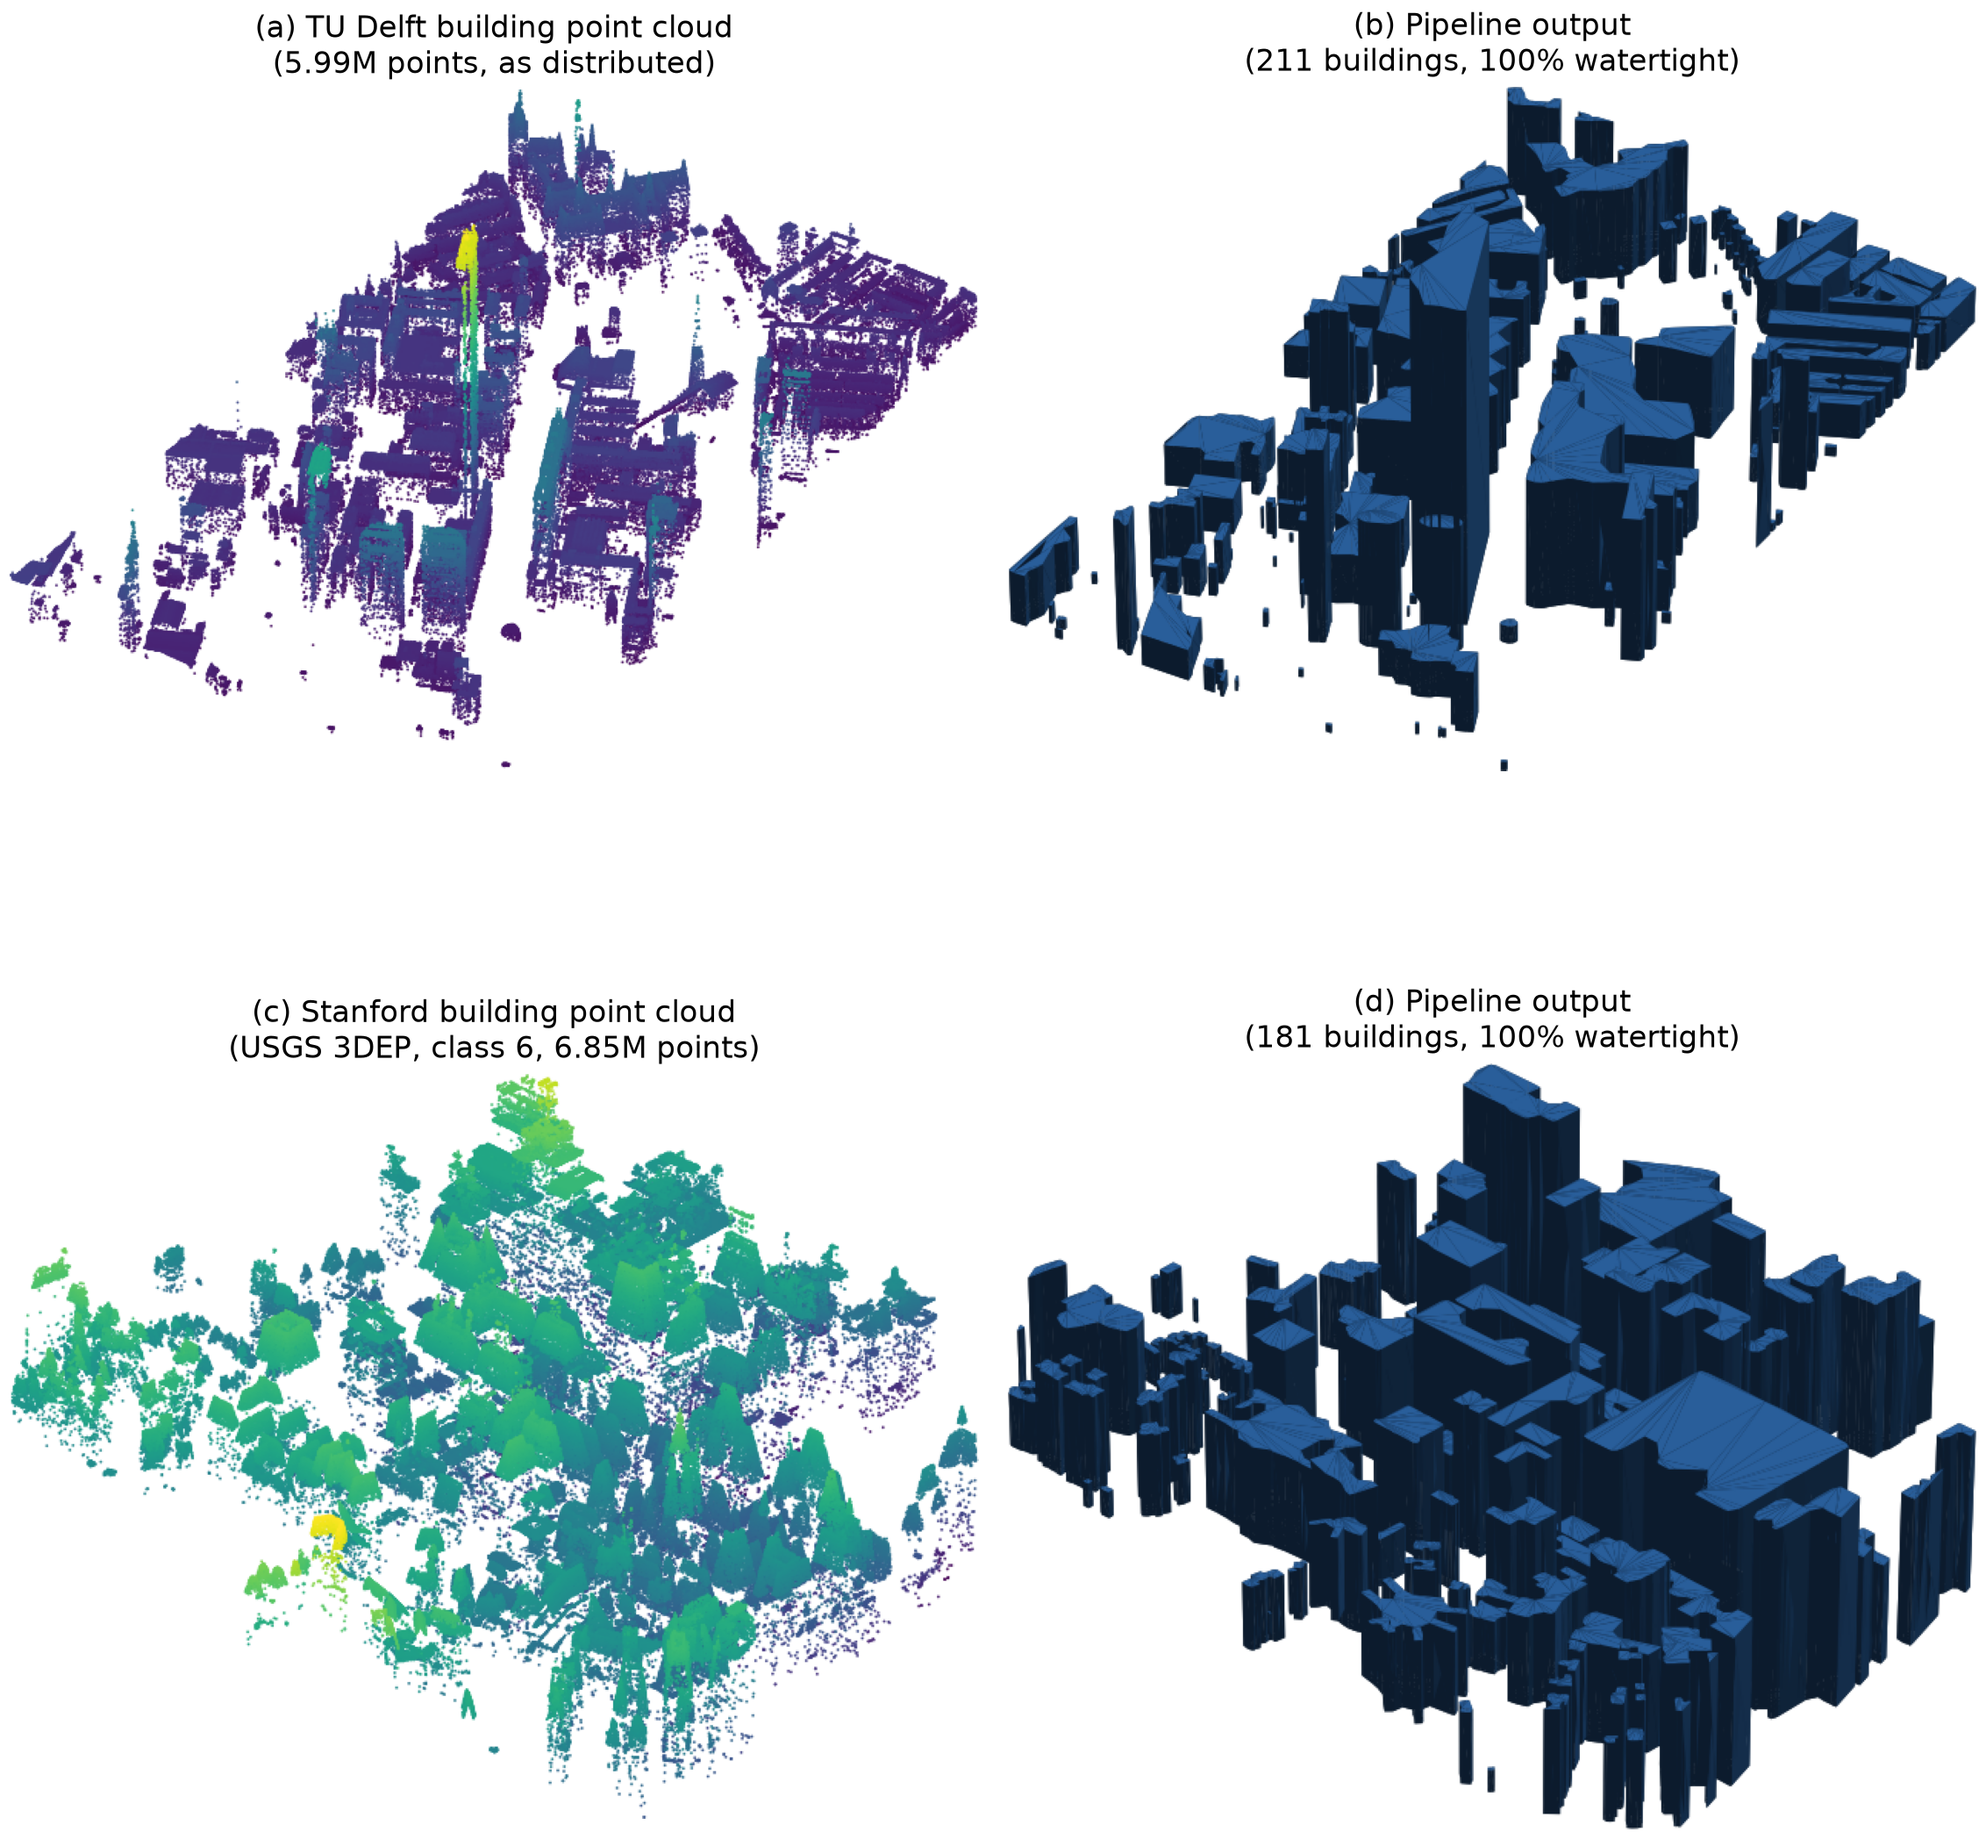
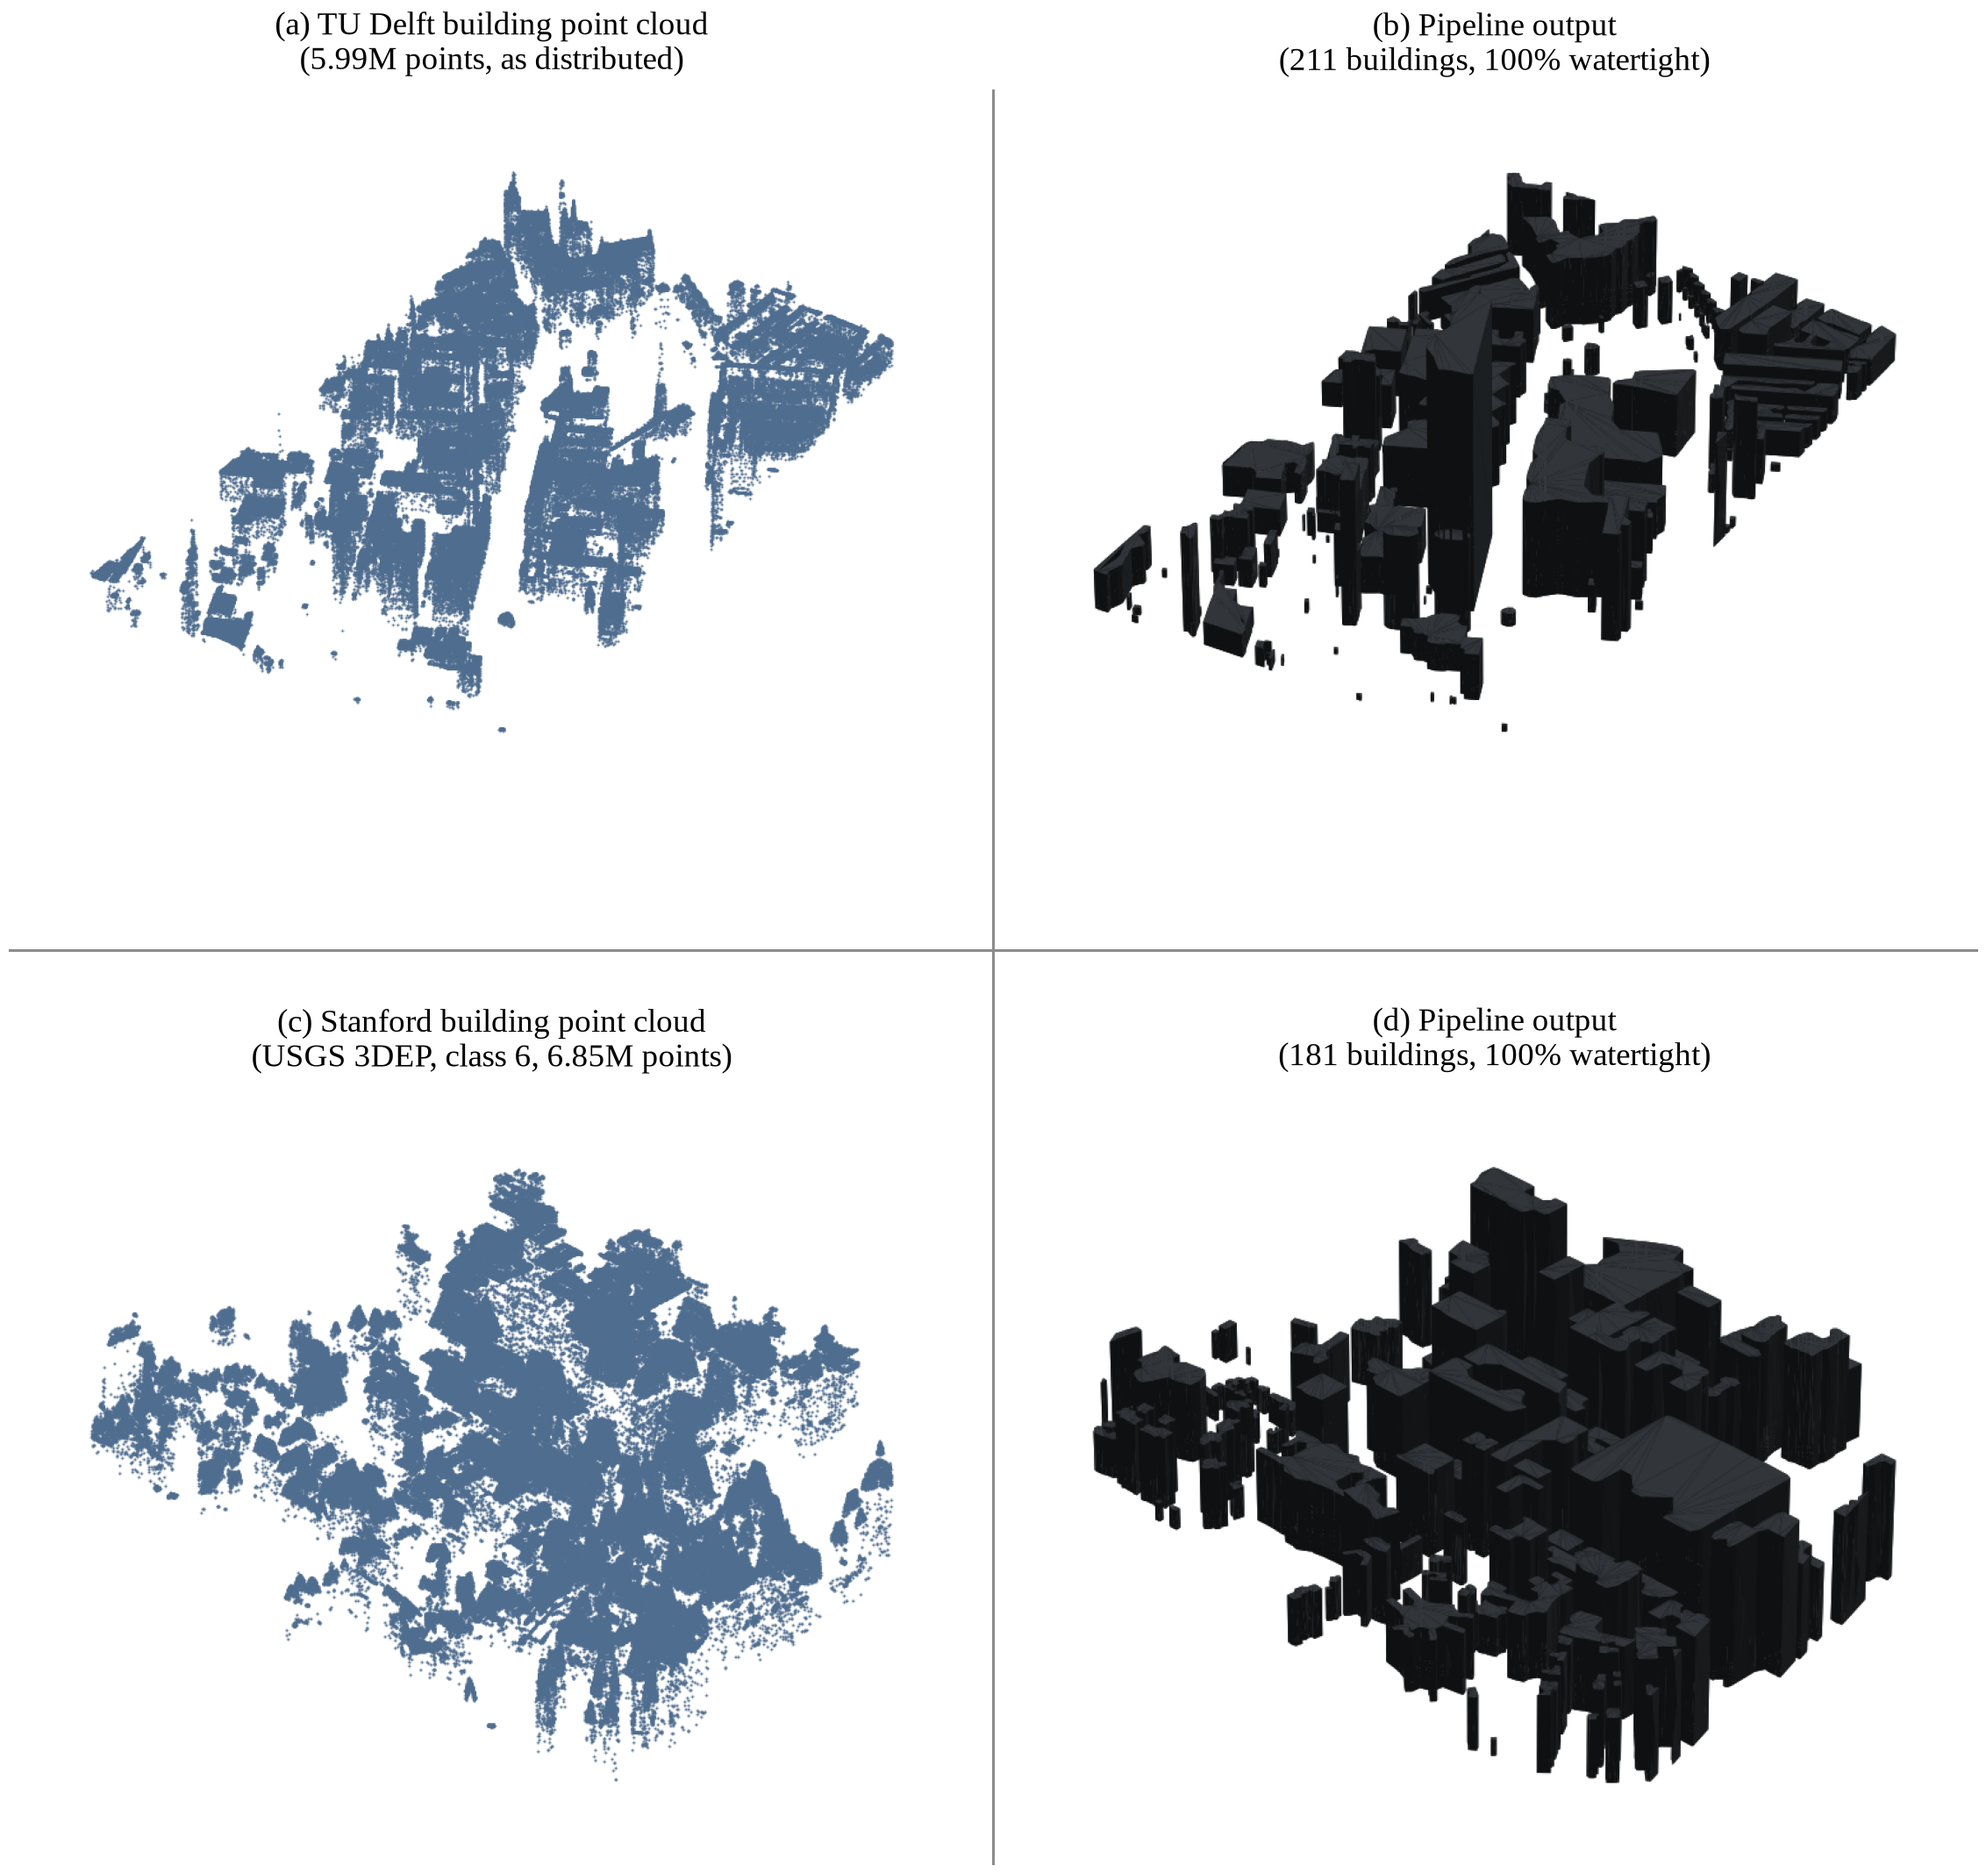
benchmarks: restyle Section 4.3 figure (serif titles, panel margins, quadrant dividers)

diff --git a/benchmarks/render_figure.py b/benchmarks/render_figure.py
@@ -1,5 +1,11 @@
 """Render the Section 4.3 benchmark figure: (input cloud vs output mesh) x (TUD, Stanford).
 
+Each row is rendered with identical axis limits, view angle, and aspect, so the
+input cloud and the output mesh read as the same area. Input clouds are drawn
+as uniform single-color points; output meshes as dark gray solids. Panel titles
+use a Times-compatible serif font (Times New Roman where available, otherwise
+the metrically compatible Liberation Serif).
+
 Requires the input point clouds (see README.md for download instructions) in
 benchmarks/data/ and the outputs in benchmarks/outputs/ (or regenerate them
 with the commands in README.md).
@@ -17,9 +23,17 @@ from mpl_toolkits.mplot3d.art3d import Poly3DCollection
 from PIL import Image, ImageChops
 import io
 
+matplotlib.rcParams['font.family'] = 'serif'
+matplotlib.rcParams['font.serif'] = ['Times New Roman', 'Liberation Serif',
+                                     'Nimbus Roman', 'DejaVu Serif']
+
 HERE = os.path.dirname(os.path.abspath(__file__))
 DATA = os.path.join(HERE, 'data')
 OUT = os.path.join(HERE, 'outputs')
+
+ELEV, AZIM, ZSCALE = 32, -60, 0.42
+CLOUD_COLOR = '#4f6d8f'   # uniform, no colormap
+MESH_COLOR = '#3a3f44'    # dark gray
 
 
 def load_faces(path):
@@ -35,7 +49,16 @@ def load_pts(path):
                             np.asarray(las.z)]).astype(np.float64)
 
 
-def _tight_crop(fig):
+def _frame(ax, center, r, zmin, zmax):
+    ax.set_xlim(center[0] - r, center[0] + r)
+    ax.set_ylim(center[1] - r, center[1] + r)
+    ax.set_zlim(zmin - (zmax - zmin) * 0.05, zmax + (zmax - zmin) * 0.10)
+    ax.set_box_aspect((1, 1, ZSCALE))
+    ax.view_init(elev=ELEV, azim=AZIM)
+    ax.set_axis_off()
+
+
+def _finish(fig, pad_frac=0.10):
     buf = io.BytesIO()
     fig.savefig(buf, format='png', bbox_inches='tight', pad_inches=0.02,
                 transparent=False)
@@ -44,10 +67,29 @@ def _tight_crop(fig):
     im = Image.open(buf).convert('RGB')
     bg = Image.new('RGB', im.size, (255, 255, 255))
     bbox = ImageChops.difference(im, bg).getbbox()
-    return np.array(im.crop(bbox)) if bbox else np.array(im)
+    if bbox:
+        im = im.crop(bbox)
+    # symmetric white margin so each panel breathes
+    pad = int(pad_frac * max(im.size))
+    out = Image.new('RGB', (im.width + 2 * pad, im.height + 2 * pad),
+                    (255, 255, 255))
+    out.paste(im, (pad, pad))
+    return np.array(out)
 
 
-def render_mesh(verts, faces, color, elev=32, azim=-60, zscale=0.42, dpi=220):
+def render_cloud_shared(pts, center, r, zmin, zmax, max_pts=350_000, dpi=220):
+    fig = plt.figure(figsize=(6, 6), dpi=dpi)
+    ax = fig.add_subplot(111, projection='3d')
+    if len(pts) > max_pts:
+        idx = np.random.default_rng(0).choice(len(pts), max_pts, replace=False)
+        pts = pts[idx]
+    ax.scatter(pts[:, 0], pts[:, 1], pts[:, 2], s=0.45, c=CLOUD_COLOR,
+               linewidths=0, depthshade=False)
+    _frame(ax, center, r, zmin, zmax)
+    return _finish(fig)
+
+
+def render_mesh_shared(verts, faces, center, r, zmin, zmax, dpi=220):
     fig = plt.figure(figsize=(6, 6), dpi=dpi)
     ax = fig.add_subplot(111, projection='3d')
     tri = verts[faces]
@@ -55,39 +97,20 @@ def render_mesh(verts, faces, color, elev=32, azim=-60, zscale=0.42, dpi=220):
     n = n / (np.linalg.norm(n, axis=1, keepdims=True) + 1e-12)
     light = np.array([0.4, 0.3, 0.85]); light /= np.linalg.norm(light)
     shade = np.clip(n @ light, 0.25, 1.0)
-    base = np.array(matplotlib.colors.to_rgb(color))
+    base = np.array(matplotlib.colors.to_rgb(MESH_COLOR))
     cols = np.clip(shade[:, None] * base[None, :], 0, 1)
     ax.add_collection3d(Poly3DCollection(tri, facecolors=cols, edgecolors='none'))
-    mins, maxs = verts.min(0), verts.max(0)
-    c = (mins + maxs) / 2
-    r = max(maxs[0] - mins[0], maxs[1] - mins[1]) / 2 * 1.02
-    zr = maxs[2] - mins[2]
-    ax.set_xlim(c[0] - r, c[0] + r); ax.set_ylim(c[1] - r, c[1] + r)
-    ax.set_zlim(mins[2] - zr * 0.05, maxs[2] + zr * 0.10)
-    ax.set_box_aspect((1, 1, zscale))
-    ax.view_init(elev=elev, azim=azim)
-    ax.set_axis_off()
-    return _tight_crop(fig)
+    _frame(ax, center, r, zmin, zmax)
+    return _finish(fig)
 
 
-def render_cloud(pts, elev=32, azim=-60, zscale=0.42, dpi=220, max_pts=350_000):
-    fig = plt.figure(figsize=(6, 6), dpi=dpi)
-    ax = fig.add_subplot(111, projection='3d')
-    if len(pts) > max_pts:
-        idx = np.random.default_rng(0).choice(len(pts), max_pts, replace=False)
-        pts = pts[idx]
-    zmin, zmax = pts[:, 2].min(), pts[:, 2].max()
-    ax.scatter(pts[:, 0], pts[:, 1], pts[:, 2], s=0.35, c=pts[:, 2],
-               cmap='viridis', vmin=zmin, vmax=zmax, linewidths=0, depthshade=False)
-    c = (pts.min(0) + pts.max(0)) / 2
-    r = max(np.ptp(pts[:, 0]), np.ptp(pts[:, 1])) / 2 * 1.02
-    zr = zmax - zmin
-    ax.set_xlim(c[0] - r, c[0] + r); ax.set_ylim(c[1] - r, c[1] + r)
-    ax.set_zlim(zmin - zr * 0.05, zmax + zr * 0.10)
-    ax.set_box_aspect((1, 1, zscale))
-    ax.view_init(elev=elev, azim=azim)
-    ax.set_axis_off()
-    return _tight_crop(fig)
+def shared_extent(cloud, verts):
+    """Union of cloud and mesh bounds -> common center, radius, z-range."""
+    allmin = np.minimum(cloud.min(0), verts.min(0))
+    allmax = np.maximum(cloud.max(0), verts.max(0))
+    c = (allmin + allmax) / 2
+    r = max(allmax[0] - allmin[0], allmax[1] - allmin[1]) / 2 * 1.02
+    return c[:2], r, allmin[2], allmax[2]
 
 
 def main():
@@ -96,23 +119,37 @@ def main():
     tv, tf = load_faces(os.path.join(OUT, 'tud_pc_modeled.stl'))
     sv, sf = load_faces(os.path.join(OUT, 'stanford_pc_modeled.stl'))
 
+    # each row shares one camera/extent so input and output align
+    tc, tr, tz0, tz1 = shared_extent(tud_pts, tv)
+    sc, sr, sz0, sz1 = shared_extent(st_pts, sv)
     panels = [
         ('(a) TU Delft building point cloud\n(5.99M points, as distributed)',
-         render_cloud(tud_pts)),
+         render_cloud_shared(tud_pts, tc, tr, tz0, tz1)),
         ('(b) Pipeline output\n(211 buildings, 100% watertight)',
-         render_mesh(tv, tf, '#2f6db3')),
+         render_mesh_shared(tv, tf, tc, tr, tz0, tz1)),
         ('(c) Stanford building point cloud\n(USGS 3DEP, class 6, 6.85M points)',
-         render_cloud(st_pts)),
+         render_cloud_shared(st_pts, sc, sr, sz0, sz1)),
         ('(d) Pipeline output\n(181 buildings, 100% watertight)',
-         render_mesh(sv, sf, '#2f6db3')),
+         render_mesh_shared(sv, sf, sc, sr, sz0, sz1)),
     ]
 
     fig, axes = plt.subplots(2, 2, figsize=(10.4, 11.0), dpi=220)
     for ax, (title, img) in zip(axes.flat, panels):
         ax.imshow(img); ax.set_axis_off()
-        ax.set_title(title, fontsize=11, pad=6)
-    fig.subplots_adjust(left=0.01, right=0.99, top=0.95, bottom=0.01,
-                        wspace=0.03, hspace=0.04)
+        ax.set_title(title, fontsize=12, pad=8)
+    fig.subplots_adjust(left=0.01, right=0.99, top=0.93, bottom=0.01,
+                        wspace=0.04, hspace=0.10)
+    # quadrant divider lines
+    fig.canvas.draw()
+    pos = [ax.get_position() for ax in axes.flat]
+    x_div = (pos[0].x1 + pos[1].x0) / 2
+    y_div = (pos[0].y0 + pos[2].y1) / 2
+    ylo = min(p.y0 for p in pos); yhi = max(p.y1 for p in pos)
+    xlo = min(p.x0 for p in pos); xhi = max(p.x1 for p in pos)
+    fig.add_artist(plt.Line2D([x_div, x_div], [ylo, yhi],
+                              transform=fig.transFigure, color='0.55', lw=1.0))
+    fig.add_artist(plt.Line2D([xlo, xhi], [y_div, y_div],
+                              transform=fig.transFigure, color='0.55', lw=1.0))
     out = os.path.join(HERE, 'fig_pc_benchmark.png')
     fig.savefig(out, bbox_inches='tight', pad_inches=0.05, facecolor='white')
     plt.close(fig)

diff --git a/benchmarks/README.md b/benchmarks/README.md
@@ -31,7 +31,8 @@ The input point clouds are public and are **not** redistributed here
 python ../pipeline.py data/tud_buildings_pc.laz      --ground data/tud_ground_pc.laz      -o outputs/tud_pc_modeled.stl
 python ../pipeline.py data/stanford_buildings_pc.laz --ground data/stanford_ground_pc.laz -o outputs/stanford_pc_modeled.stl
 
-# mesh input route (secondary; automatically extruded inputs, see paper)
+# mesh input route (secondary; extruded from the distributed footprint
+# polygons with `tud_extrude.py` / `stanford_extrude.py`)
 python ../pipeline.py data/tud_raw_gis_extruded.stl      -o outputs/tud_modeled.stl
 python ../pipeline.py data/stanford_raw_gis_extruded.stl -o outputs/stanford_modeled.stl
 
@@ -65,5 +66,6 @@ the qualifications.
 ## Contents
 
 - `stanford_pc_prep.py` — USGS 3DEP tiles -> building/ground point clouds
+- `tud_extrude.py`, `stanford_extrude.py` — build the extruded mesh-route inputs in `data/`
 - `render_figure.py` — regenerates the Section 4.3 figure
 - `outputs/` — the four pipeline outputs as shipped with the paper
